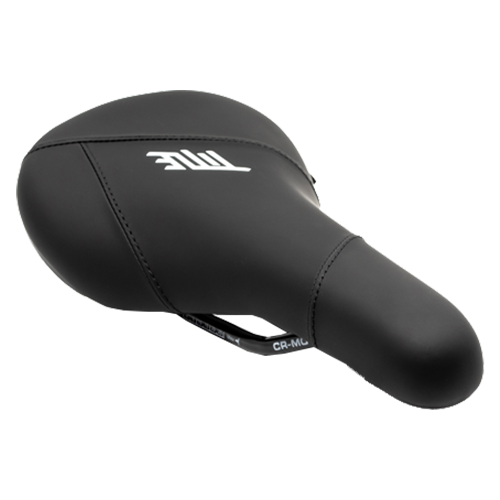
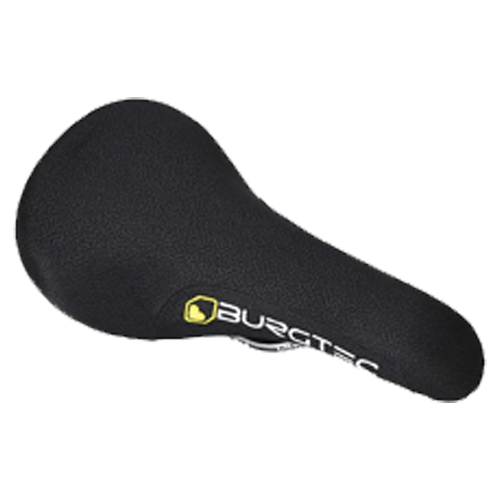
Added saddles, seatposts and bars for DJs Fixed shock issue not allowing DJs to save to database

diff --git a/BikeBuilderAPI/wwwroot/dj-builder.html b/BikeBuilderAPI/wwwroot/dj-builder.html
@@ -19,8 +19,8 @@
         <img id="brakes-img" src="" alt="" />
         <img id="tyres-img" src="" alt="" />
         <img id="wheels-img" src="" alt="">
-        <img id="saddle-img" src="" alt="">
         <img id="seatpost-img" src="" alt="">
+        <img id="saddle-img" src="" alt="">
         <img id="stem-img" src="" alt="">
         <img id="drivetrain-rear-img" src="" alt="" />
         <img id="fork-img" src="" alt="">
@@ -181,15 +181,20 @@
         <div id="step-bars" class="bike-part-select" style="display:none;">
             <label>Choose Bars:</label>
             <div class="bars-options">
-                <!--RaceFace Chester-->
+                <!--NS Bikes Lick 740mm-->
                 <div class="part-option bars-option" data-image="bars1.png">
-                    <img src="images/DH/bars/bars1-thumb.png" alt="RaceFace Chester">
+                    <img src="images/DJ/bars/bars1-thumb.png" alt="NS Bikes Lick 740mm">
+                    <p>NS Bikes Lick 740mm</p>
+                </div>
+                <!--RaceFace Chester 760mm-->
+                <div class="part-option bars-option" data-image="bars2.png">
+                    <img src="images/DJ/bars/bars2-thumb.png" alt="RaceFace Chester">
                     <p>RaceFace Chester</p>
                 </div>
-                <!--Burgtec Ridewide-->
-                <div class="part-option bars-option" data-image="bars2.png">
-                    <img src="images/DH/bars/bars2-thumb.png" alt="Burgtec Ridewide">
-                    <p>Burgtec Ridewide</p>
+                <!--Title AH1 760mm-->
+                <div class="part-option bars-option" data-image="bars3.png">
+                    <img src="images/DJ/bars/bars3-thumb.png" alt="Title AH1 760mm">
+                    <p>Title AH1 760mm</p>
                 </div>
             </div>
         </div>
@@ -200,7 +205,7 @@
             <div class="seatpost-options">
                 <!--AP1 Alloy Seatpost-->
                 <div class="part-option seatpost-option" data-image="seatpost1">
-                    <img src="images/DH/frame-specific/seatpost1_thumb.png" alt="AP1 Alloy Seatpost">
+                    <img src="images/DJ/frame-specific/seatpost1_thumb.png" alt="AP1 Alloy Seatpost">
                     <p>AP1 Alloy Seatpost</p>
                 </div>
             </div>
@@ -210,15 +215,15 @@
         <div id="step-saddle" class="bike-part-select" style="display:none;">
             <label>Choose Saddle:</label>
             <div class="saddle-options">
-                <!--Deity Speedtrap-->
-                <div class="part-option saddle-option" data-image="saddle1">
-                    <img src="images/DH/frame-specific/saddle1-thumb.png" alt="Deity Speedtrap">
-                    <p>Deity Speedtrap</p>
-                </div>
                 <!--Title JS1-->
-                <div class="part-option saddle-option" data-image="saddle2">
-                    <img src="images/DH/frame-specific/saddle2-thumb.png" alt="Title JS1">
+                <div class="part-option saddle-option" data-image="saddle1">
+                    <img src="images/DJ/frame-specific/saddle1-thumb.png" alt="Title JS1">
                     <p>Title JS1</p>
+                </div>
+                <!--Burgtec Cloud Boost-->
+                <div class="part-option saddle-option" data-image="saddle2">
+                    <img src="images/DJ/frame-specific/saddle2-thumb.png" alt="Burgtec Cloud Boost">
+                    <p>Burgtec Cloud Boost</p>
                 </div>
             </div>
         </div>

diff --git a/BikeBuilderAPI/wwwroot/js/dj-builder-script.js b/BikeBuilderAPI/wwwroot/js/dj-builder-script.js
@@ -46,6 +46,7 @@ const BuildSteps = [
 ];
 
 let frame = "";
+let shock = "shock0"
 let fork = "";
 let wheels = "";
 let tyres = "";
@@ -183,7 +184,7 @@ document.addEventListener("DOMContentLoaded", () => {
                 document.getElementById("brakes-img").src = `images/${BikeType}/frame-specific/brakes/${BrakesSelected}_${FrameSelected}`;
             }
             if (IsSeatpostSelected === true) {
-                document.getElementById("seatpost-img").src = `images/${BikeType}/frame-specific/seatposts/${SeatpostSelected}-${FrameSelected}`;
+                document.getElementById("seatpost-img").src = `images/${BikeType}/frame-specific/seatposts/${SeatpostSelected}_${FrameSelected}`;
 
             }
             if (IsSaddleSelected === true) {
@@ -326,6 +327,7 @@ document.addEventListener("DOMContentLoaded", () => {
             AccountId: LoggedInAccountID,
             biketype: BikeType, //also send bike type so different bikes can be differentiated
             frame: frame,
+            shock: shock,
             fork: fork,
             wheels: wheels,
             tyres: tyres,

diff --git a/BikeBuilderAPI/wwwroot/styles/login-signup-styles.css b/BikeBuilderAPI/wwwroot/styles/login-signup-styles.css
@@ -38,6 +38,7 @@
     height: 30px;
     width: 500px;
     font-size: 1.1rem;
+    box-shadow: 0 5px 15px rgba(0, 0, 0, 0.3);
 }
 
 .FormBoxName {
@@ -48,6 +49,7 @@
     height: 30px;
     width: 238px;
     font-size: 1.1rem;
+    box-shadow: 0 5px 15px rgba(0, 0, 0, 0.3);
 }
 
 .NameContainer {
@@ -75,6 +77,7 @@
     height: 30px;
     width: 130px;
     justify-content: center;
+    box-shadow: 0 5px 15px rgba(0, 0, 0, 0.3);
 }
 
     .SubmitButton:hover {
